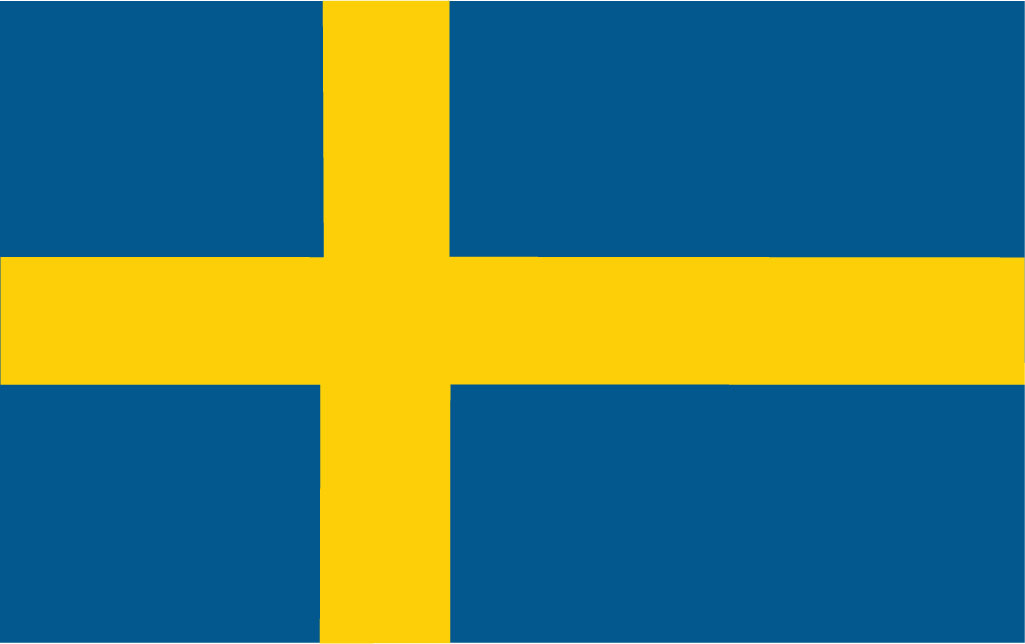
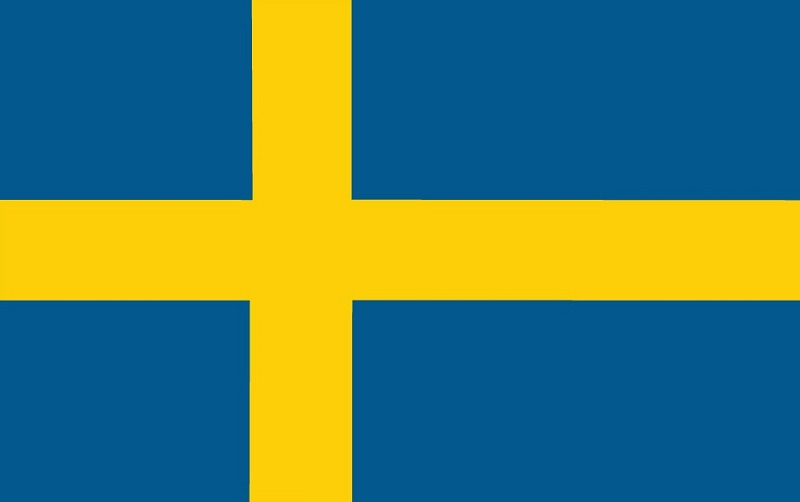
Fix flags not filling out whole box

diff --git a/src/components/LanguageCard.vue b/src/components/LanguageCard.vue
@@ -14,9 +14,7 @@ const props = defineProps(["name", "img", "alt", "link"]);
 <style scoped>
 #language-card-box {
   max-width: 150px;
-  width: 100%;
   max-height: 100px;
-  height: 100%;
   border: 2px solid black;
   border-radius: 15px;
 }
@@ -27,8 +25,10 @@ const props = defineProps(["name", "img", "alt", "link"]);
 }
 
 img {
-  width: 100%;
-  border-radius: 15px;
+  width: 150px;
+  height: 100px;
+  border-radius: 13px;
+  object-fit: cover;
 }
 
 h4 {
